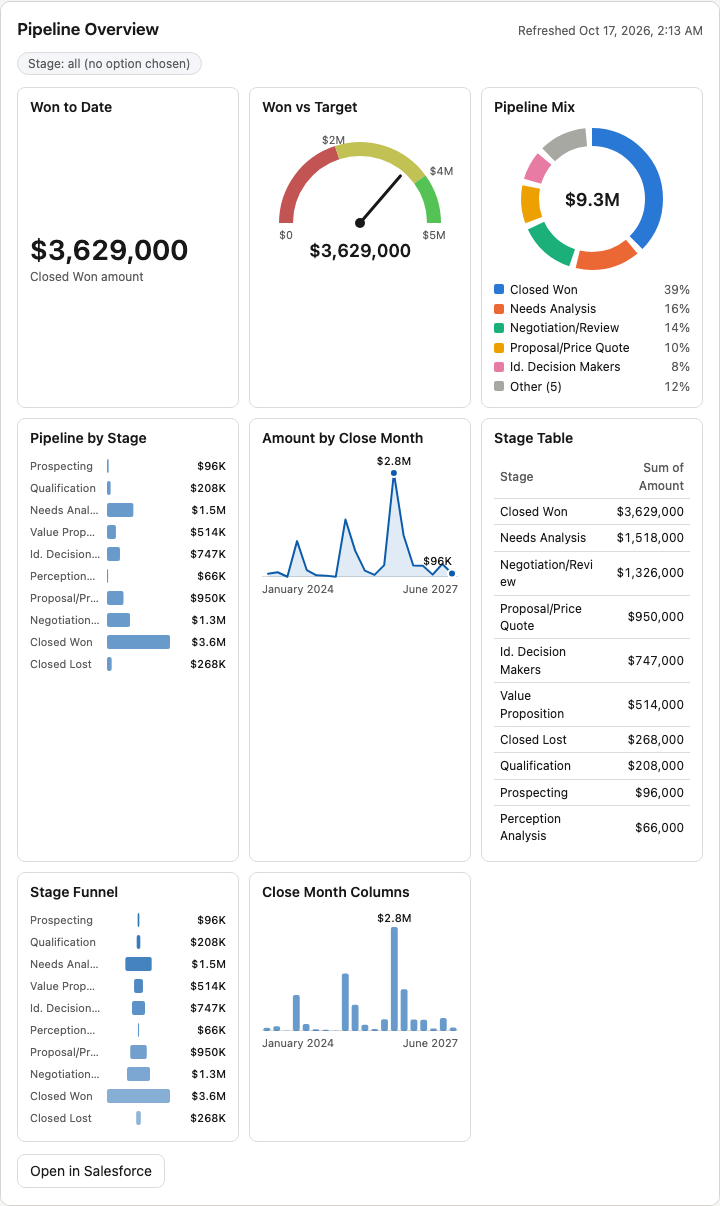
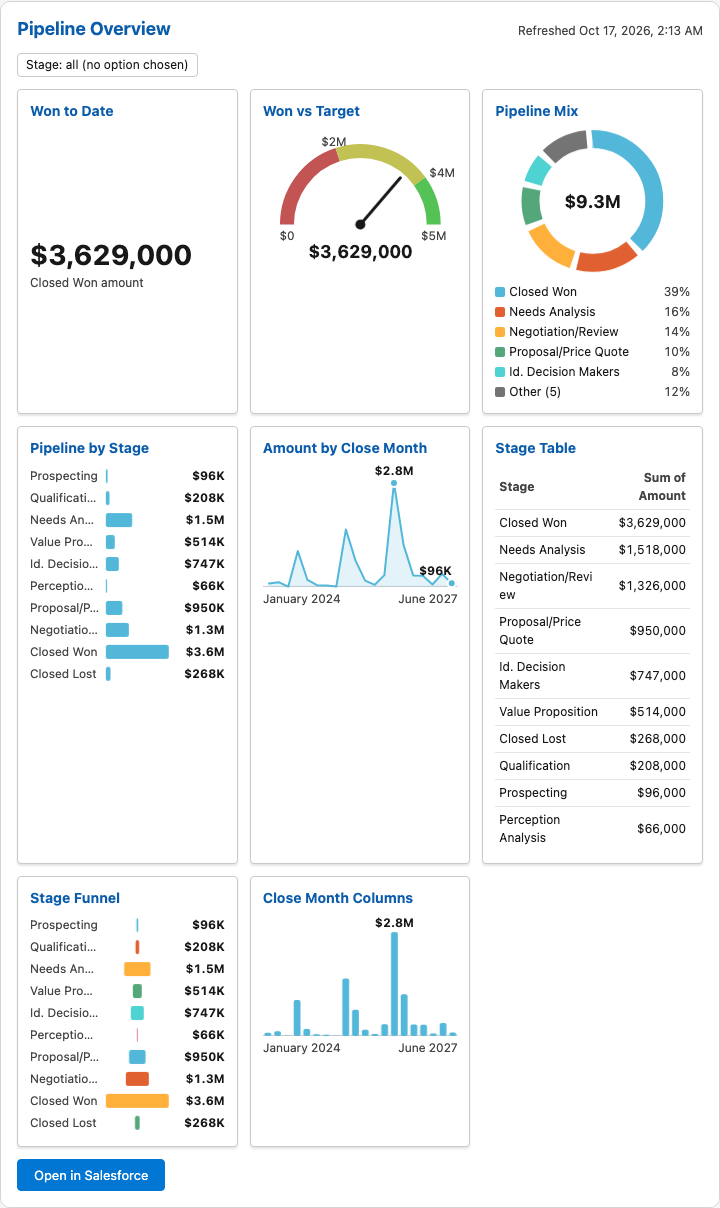
feat(view): one headline tile a row at phone width; README, changelog, GIF and dashboard picture for the SLDS cards

diff --git a/test/render/report-view.render.ts b/test/render/report-view.render.ts
@@ -128,6 +128,10 @@ test("summary, 360 px wide", async ({ page }) => {
   expect(await page.locator("#frame-box iframe").evaluate((el) => el.getBoundingClientRect().width)).toBe(360);
   // The tables fold at phone width, so neither they nor the card scroll sideways.
   await expectNoSidewaysScroll(frame);
+  // Each headline number stays on one line.
+  for (const box of await frame.locator(".kpi-value").evaluateAll((els) => els.map((el) => ({ height: el.getBoundingClientRect().height, line: parseFloat(getComputedStyle(el).lineHeight) })))) {
+    expect(box.height).toBeLessThan(box.line * 1.5);
+  }
   await screenshot(page, "summary-narrow.png");
 });
 

diff --git a/src/widget/report.html b/src/widget/report.html
@@ -220,6 +220,8 @@
      the grouping labels stack on the left, the lead measure and its bar sit on the right, and every other
      column stacks under the row as "label value". Nothing scrolls sideways. */
   @media (max-width: 480px) {
+    /* One tile a row, so a headline number never breaks across lines. */
+    .kpi { flex-basis: 100%; max-width: none; }
     table.fold, table.fold thead, table.fold tbody { display: block; }
     table.fold tr { display: grid; grid-template-columns: minmax(0, 1fr); border-bottom: 1px solid var(--rule); }
     table.fold.led tr { grid-template-columns: minmax(0, 1.2fr) minmax(0, 1fr); }

diff --git a/README.md b/README.md
@@ -21,7 +21,7 @@ Most of what a company knows about its customers and its pipeline sits in Salesf
 | **1. Three ways to connect Salesforce and Claude**, each with its own trade-offs | [Three ways to connect](#three-ways-to-connect) | One tool contract and result shape on every door (16 tools locally, 11 in the org); a [parity check](docs/decisions/0010-verification-by-parity.md) runs the same calls through two doors against a real org and compares them |
 | **2. A useful feature added to Salesforce itself**, packaged the way an admin expects | [A feature inside Salesforce](#a-feature-inside-salesforce) | Three package directories; layered Apex with a CI test that fails if the layers leak; 65 Apex tests at 98% coverage |
 | **3. Security, authentication and integration** done deliberately, per door | [Security and identity](#security-and-identity) | A different identity per door, a per-user JWT named credential with no stored secret, writes behind a custom permission, and a test that keeps org values out of the repo |
-| **4. Product and architecture judgment**, shown in the work | [How it was built](#how-it-was-built) | Personas and [experiences](docs/experiences.md), [7 probes](docs/probes/) before building, [17 decision records](docs/decisions/README.md), [live findings](docs/design.md), [7 rehearsals](docs/rehearsals/README.md) |
+| **4. Product and architecture judgment**, shown in the work | [How it was built](#how-it-was-built) | Personas and [experiences](docs/experiences.md), [7 probes](docs/probes/) before building, [18 decision records](docs/decisions/README.md), [live findings](docs/design.md), [7 rehearsals](docs/rehearsals/README.md) |
 
 ## The product
 
@@ -41,7 +41,7 @@ Most of what a company knows about its customers and its pipeline sits in Salesf
 
 **Answers you can trust.** Every run returns the same compact shape: the filters that were applied, including the ones Salesforce adds on its own, the groups and totals, and notes that say when rows were cut or Salesforce ignored part of the request. The [experiences page](docs/experiences.md) has the personas and the facts that shaped them.
 
-**A report card in the chat.** In Claude Desktop, a report run on the local server also draws as a card: the headline numbers across the top, the filters, the groups with a bar beside each amount (or, for a matrix, a heat grid), the totals, a link to open it in Salesforce and, for an unsaved report, a button that asks Claude to save it. Claude's reply then leads with what the card cannot show instead of repeating it. The card is an MCP App that loads nothing from the network, and every heat cell passes WCAG AA contrast in light and dark. Clients that show only text, such as Claude Code, get the same result as text ([decision 0013](docs/decisions/0013-report-view-as-an-mcp-app.md), [decision 0015](docs/decisions/0015-report-card-visuals.md)).
+**A report card in the chat.** In Claude Desktop, a report run on the local server also draws as a card: the headline numbers across the top, the filters, the groups with a bar beside each amount (or, for a matrix, a heat grid), the totals, a link to open it in Salesforce and, for an unsaved report, a button that asks Claude to save it. Claude's reply then leads with what the card cannot show instead of repeating it. The card is an MCP App that loads nothing from the network, styled with the Lightning Design System's own tokens so it reads as Salesforce ([decision 0018](docs/decisions/0018-cards-follow-the-lightning-design-system.md)), and every heat cell passes WCAG AA contrast in light and dark. Clients that show only text, such as Claude Code, get the same result as text ([decision 0013](docs/decisions/0013-report-view-as-an-mcp-app.md), [decision 0015](docs/decisions/0015-report-card-visuals.md)).
 
 ![The report card for an unsaved opportunity report grouped by stage, drawn in light, then dark, then at phone width](docs/assets/report-view.gif)
 
@@ -127,9 +127,9 @@ The method was the same for every feature: probe the platform, decide in writing
 | Step | What it produced |
 | --- | --- |
 | **Probe** before building | [7 probe write-ups](docs/probes/): can a hosted MCP server wrap Apex, can Apex call its own org's API, how big a result fits in the heap, which identity works under a hosted sign-in, how dashboards refresh and filter |
-| **Decide** in writing | [17 decision records](docs/decisions/README.md), each with what it costs and what was turned down |
+| **Decide** in writing | [18 decision records](docs/decisions/README.md), each with what it costs and what was turned down |
 | **Build** to one contract | [design.md](docs/design.md): the input and output shapes, and the live findings where Salesforce did not behave as documented |
-| **Verify** against a real org | 194 unit and server tests, 24 render tests that draw the report and dashboard cards in a browser, 65 Apex tests, a live end-to-end check that leaves no report behind, and a parity check across doors |
+| **Verify** against a real org | 198 unit and server tests, 24 render tests that draw the report and dashboard cards in a browser, 65 Apex tests, a live end-to-end check that leaves no report behind, and a parity check across doors |
 | **Rehearse** the experience | [7 rehearsals](docs/rehearsals/README.md): real Claude runs of each skill on each door, with what went wrong and what changed |
 
 ## Get started

diff --git a/CHANGELOG.md b/CHANGELOG.md
@@ -2,6 +2,7 @@
 
 ## Unreleased
 
+- The report card and the dashboard card follow the Salesforce Lightning Design System: its font stack, type scale, spacing, card border, radius and shadow, brand blue for links and buttons, and its data-visualization palette on every chart. A dashboard that names the Bluegrass, Sunrise, Water or Watermelon palette draws in it, and `DashboardResult` carries the palette name as `colorPalette`. The values are copied from the published token files into one small file inlined at build; no stylesheet, font file or network load, so the cards stay self-contained ([decision 0018](docs/decisions/0018-cards-follow-the-lightning-design-system.md)). At phone width each headline tile takes a row of its own, so a number never breaks across lines.
 - The report card shows the answer at a glance: up to three headline tiles (the primary measure's total, the record count, and the largest group's share), a bar beside each group's amount, and for a matrix a heat grid with row and column totals, its full group table folded under "All groups (N)". Currency, dates and percents are formatted, and blanks show a muted dash. Heat cells are shaded in two bands so every cell passes WCAG AA contrast in light and dark. Still inline CSS, no new dependency, and `ReportResult` is unchanged ([decision 0015](docs/decisions/0015-report-card-visuals.md)). Amounts always draw in US dollars, since the result carries no currency code.
 - When a card is drawn, the `run_report` and `query_report` descriptions tell Claude to lead with the one finding the card cannot show and never repeat its rows, totals or a table. The report-runner skill says the same for both kinds of host. The hosted door's descriptions are unchanged.
 - `npm run test:render` has 11 cases, adding the headline tiles and bars, the matrix heat grid, and the heat grid in dark, and checks formats, bar placement and the contrast of every heat cell. The README GIF is redrawn from the new card.
